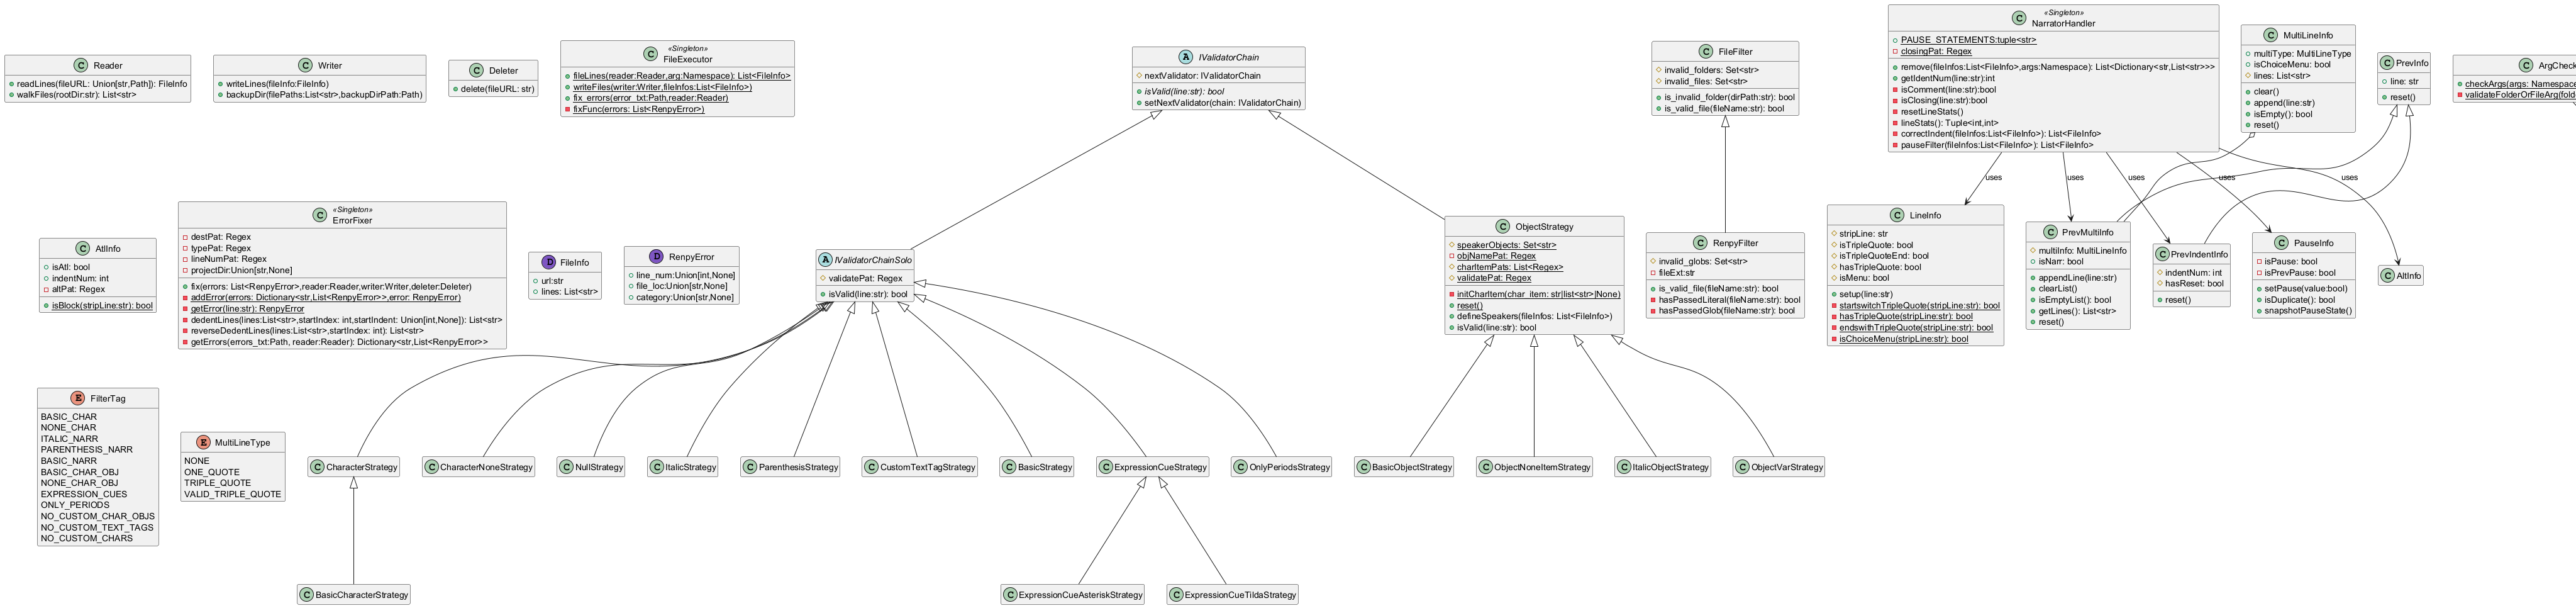
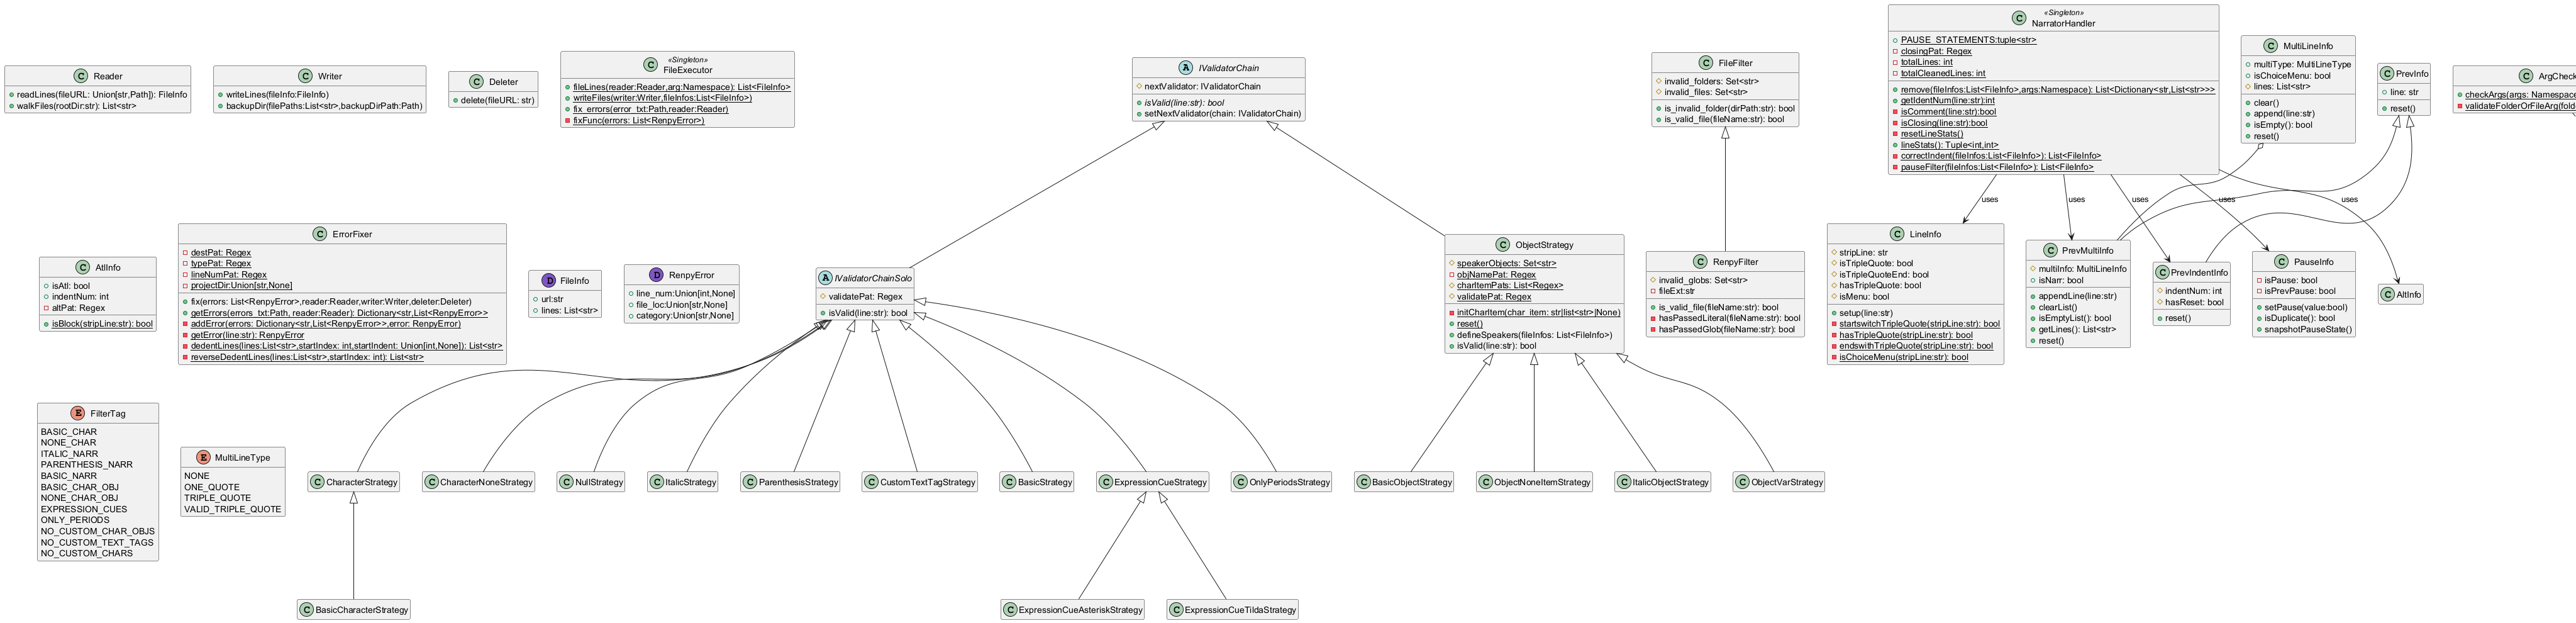
Error fixer and italic object filter improvements. - Rename package. 'handler' -> 'info' - Improve fixing error type: 'indentation mismatch' - Add case to italic object filter where Character contains a what_prefix with an italic tag - Convert Narrator handler to static class - Update tests - Update

diff --git a/src/lib/narrator_handler.py b/src/lib/narrator_handler.py
@@ -1,4 +1,4 @@
-from lib.handler import AtlInfo, LineInfo, PauseInfo, PrevIndentInfo, PrevMultiInfo
+from lib.info import AtlInfo, LineInfo, PauseInfo, PrevIndentInfo, PrevMultiInfo
 from .custom_types import FileInfo, MultiLineType
 import typing
 import re
@@ -9,7 +9,7 @@ class NarratorHandler:
     """Handles operations involving the removal of narration and thoughts.
 
     This handler removes narration and thoughts detected in the contents of files. After the operation,
-    attempts to cleanup the file(s) are set in place.
+    attempts to clean up the file(s) are set in place.
 
     Attributes:
         PAUSE_STATEMENTS: represents Ren'Py's 'pause' statements.
@@ -17,30 +17,33 @@ class NarratorHandler:
 
     PAUSE_STATEMENTS: tuple[str, str] = ("pause", "$ renpy.pause")
     __closing_pat: re.Pattern = re.compile(r"(?:[\"']|[\"']\s*with .+)$")
-
-    def __init__(self) -> None:
-        self._total_lines = 0
-        self._total_cleaned_lines = 0
+    __total_lines: int = 0
+    __total_cleaned_lines: int = 0
 
     @staticmethod
     def get_indent_num(line: str) -> int:
         """Gets the current amount of indentation."""
         return len(line) - len(line.lstrip())
 
-    def __is_comment(self, strip_line: str) -> bool:
+    @staticmethod
+    def __is_comment(strip_line: str) -> bool:
         return strip_line.startswith("\ufeff#") or strip_line.startswith("#")
 
-    def __is_closing(self, strip_line: str) -> bool:
-        return True if self.__closing_pat.search(strip_line) else False
+    @classmethod
+    def __is_closing(cls, strip_line: str) -> bool:
+        return True if cls.__closing_pat.search(strip_line) else False
 
-    def __reset_line_stats(self):
-        self._total_cleaned_lines = 0
-        self._total_lines = 0
+    @classmethod
+    def __reset_line_stats(cls):
+        cls.__total_cleaned_lines = 0
+        cls.__total_lines = 0
 
-    def line_stats(self) -> tuple[int, int]:
-        return self._total_cleaned_lines, self._total_lines
+    @classmethod
+    def line_stats(cls) -> tuple[int, int]:
+        return cls.__total_cleaned_lines, cls.__total_lines
 
-    def remove(self, file_infos: list[FileInfo], args) -> list[FileInfo]:
+    @classmethod
+    def remove(cls, file_infos: list[FileInfo], args) -> list[FileInfo]:
         """Removes narration & thoughts from file content.
 
         Along with the removal operation, cleanup operations are executed afterward.
@@ -51,30 +54,30 @@ class NarratorHandler:
         Returns:
             a list of file information and their modified content without the presence of a narrator or thought.
         """
-        self.__reset_line_stats()
+        cls.__reset_line_stats()
         for file_info in file_infos:
-            self._total_lines += len(file_info.lines)
+            cls.__total_lines += len(file_info.lines)
             cleaned_lines = []
             line_info = LineInfo()
             atl_info = AtlInfo()
             prev_info = PrevMultiInfo()
             for line in file_info.lines:
                 line_info.setup(line)
-                if self.__is_comment(line_info.strip_line):
+                if cls.__is_comment(line_info.strip_line):
                     continue
                 # REF:https://www.renpy.org/doc/html/transforms.html#atl-animation-and-transformation-language
                 # Example:
                 # init -2 layeredimage augustina:
                 #   "image_smile.png"
                 if atl_info.is_atl:
-                    if self.get_indent_num(line) > atl_info.indent_num:
+                    if cls.get_indent_num(line) > atl_info.indent_num:
                         cleaned_lines.append(line)
                         continue
                     else:
                         atl_info.is_atl = False
                 if atl_info.is_block(line_info.strip_line):
                     atl_info.is_atl = True
-                    atl_info.indent_num = self.get_indent_num(line)
+                    atl_info.indent_num = cls.get_indent_num(line)
                     cleaned_lines.append(line)
                     continue
 
@@ -88,14 +91,14 @@ class NarratorHandler:
                         cleaned_lines.append(line)
                     else:
                         if (
-                                prev_info.multi_type is MultiLineType.ONE_QUOTE and self.__is_closing(
+                                prev_info.multi_type is MultiLineType.ONE_QUOTE and cls.__is_closing(
                             line_info.strip_line)
                         ) or (prev_info.multi_type is MultiLineType.TRIPLE_QUOTE and line_info.is_triple_quote_end):
                             prev_info.multi_type = MultiLineType.NONE
                             if args.pauses:
                                 # Replaces narration with pauses
                                 cleaned_lines.append(
-                                    f"{' ' * self.get_indent_num(line)}{NarratorHandler.PAUSE_STATEMENTS[0]}\n"
+                                    f"{' ' * cls.get_indent_num(line)}{cls.PAUSE_STATEMENTS[0]}\n"
                                 )
                         prev_info.append_line(line)
                     continue
@@ -111,13 +114,13 @@ class NarratorHandler:
                 elif (
                         args.pauses
                         and is_narrator
-                        and not prev_info.line.strip().startswith(NarratorHandler.PAUSE_STATEMENTS)
+                        and not prev_info.line.strip().startswith(cls.PAUSE_STATEMENTS)
                         and len(cleaned_lines)
                         and not cleaned_lines[len(cleaned_lines) - 1].strip().startswith(
-                    NarratorHandler.PAUSE_STATEMENTS)
+                    cls.PAUSE_STATEMENTS)
                 ):
                     # Replaces narration with pauses
-                    cleaned_lines.append(f"{' ' * self.get_indent_num(line)}{NarratorHandler.PAUSE_STATEMENTS[0]}\n")
+                    cleaned_lines.append(f"{' ' * cls.get_indent_num(line)}{cls.PAUSE_STATEMENTS[0]}\n")
 
                 # Keeps the narrator during choice menu appearance
                 if line_info.is_menu:
@@ -138,7 +141,7 @@ class NarratorHandler:
                             or (is_narrator and line_info.has_triple_quote and not line_info.is_triple_quote_end)
                             or (is_narrator and line_info.is_triple_quote_end)):
                         prev_info.multi_type = MultiLineType.TRIPLE_QUOTE
-                    elif is_narrator and not self.__is_closing(line_info.strip_line):
+                    elif is_narrator and not cls.__is_closing(line_info.strip_line):
                         prev_info.multi_type = MultiLineType.ONE_QUOTE
                     elif not is_narrator and line_info.has_triple_quote:
                         # linda """You are not narrator
@@ -156,10 +159,11 @@ class NarratorHandler:
 
             file_info.lines = cleaned_lines
         if args.pauses:
-            file_infos = self.__pause_filter(file_infos)
-        return self.__correct_indent(file_infos)
+            file_infos = cls.__pause_filter(file_infos)
+        return cls.__correct_indent(file_infos)
 
-    def __correct_indent(self, file_infos: list[FileInfo]) -> list[FileInfo]:
+    @classmethod
+    def __correct_indent(cls, file_infos: list[FileInfo]) -> list[FileInfo]:
         """Attempts to correct indentation for each line in a file content.
 
         In order to do this, all file contents will be looped through again.
@@ -177,13 +181,13 @@ class NarratorHandler:
                 strip_line = line.strip()
                 if strip_line.endswith(":") and prev_info.has_reset:
                     prev_info.recent_line = line
-                    prev_info.indent_num = self.get_indent_num(line)
+                    prev_info.indent_num = cls.get_indent_num(line)
                 elif strip_line.endswith(":") and not prev_info.has_reset:
                     cleaned_lines.append(prev_info.recent_line)
                     cleaned_lines.append(line)
                     prev_info.reset()
                 elif not prev_info.has_reset:
-                    line_indent_num = self.get_indent_num(line)
+                    line_indent_num = cls.get_indent_num(line)
                     if (
                             (prev_info.indent_num < line_indent_num)
                             # labels do not need to follow strict indentation. Also,
@@ -206,10 +210,11 @@ class NarratorHandler:
                 else:
                     cleaned_lines.append(line)
             file_info.lines = cleaned_lines
-            self._total_cleaned_lines += len(cleaned_lines)
+            cls.__total_cleaned_lines += len(cleaned_lines)
         return file_infos
 
-    def __pause_filter(self, file_infos: list[FileInfo]) -> list[FileInfo]:
+    @classmethod
+    def __pause_filter(cls,file_infos: list[FileInfo]) -> list[FileInfo]:
         """Removes subsequent pause statements.
 
         Args:
@@ -220,7 +225,7 @@ class NarratorHandler:
             pause_info = PauseInfo()
             for line in file_info.lines:
                 strip_line = line.strip()
-                pause_info.set_pause(strip_line.startswith(NarratorHandler.PAUSE_STATEMENTS))
+                pause_info.set_pause(strip_line.startswith(cls.PAUSE_STATEMENTS))
                 if pause_info.is_duplicate():
                     continue
                 cleaned_lines.append(line)

diff --git a/src/lib/error_fixer.py b/src/lib/error_fixer.py
@@ -34,7 +34,7 @@ class ErrorFixer:
     _dest_pat: re.Pattern = re.compile(r"(?:and )?File\s+.+(game/.+\.rpy)")
     _line_num_pat: re.Pattern = re.compile(r".+line (\d+):")
     _type_pat: re.Pattern = re.compile(
-        rf".+({ErrorType.NON_EMPTY}|{ErrorType.INDENTED_LINE}|{ErrorType.EXPECTED_STATEMENT}|{ErrorType.INDENT_MISMATCH}|{ErrorType.MENU_NO_CHOICES})"
+        rf".+({ErrorType.NON_EMPTY}|{ErrorType.INDENTED_LINE}|{ErrorType.EXPECTED_STATEMENT}|[iI]ndentation mismatch|{ErrorType.MENU_NO_CHOICES})"
     )
     _project_dir: str | None = None
 
@@ -86,7 +86,8 @@ class ErrorFixer:
         Log.info("Errors detected", total_errors_log)
         return errors
 
-    def __dedent_lines(self, lines: list[str], start_index: int, start_indent: int | None = None) -> list[str]:
+    @staticmethod
+    def __dedent_lines(lines: list[str], start_index: int, start_indent: int | None = None) -> list[str]:
         """Correct indentation by decreasing indent level by 1.
 
         Indentation will be decreased by 1 level (4 spaces) until a line with the
@@ -110,7 +111,8 @@ class ErrorFixer:
                 break
         return lines
 
-    def __reverse_dedent_lines(self, lines: list[str], start_index: int) -> list[str]:
+    @staticmethod
+    def __reverse_dedent_lines(lines: list[str], start_index: int) -> list[str]:
         """Correct indentation by decreasing indent level by 1 going up to preceding lines.
 
         All preceding lines with an indentation level higher than the starting line will be dedented 1 level.
@@ -127,6 +129,8 @@ class ErrorFixer:
         start_index = start_index - 1
         for i in range(start_index, 0, -1):
             line = lines[i]
+            if not line.lstrip():
+                continue
             line_indent = NarratorHandler.get_indent_num(line)
             if line_indent <= min_indent:
                 break
@@ -137,8 +141,10 @@ class ErrorFixer:
         """Attempts to fix an error generated from 'errors.txt'.
 
         Args:
-            error: error information
+            errors: collection of error information
             reader: class for extracting content from a file.
+            writer: class for writing content to a file.
+            deleter: class for deleting an entire file.
         """
         if self._project_dir is None:
             return
@@ -153,7 +159,7 @@ class ErrorFixer:
                         file_info.lines.pop(error.line_num - 1)
                     elif ErrorType.INDENTED_LINE in error.category:
                         file_info.lines = self.__dedent_lines(file_info.lines, error.line_num - 1)
-                    elif ErrorType.INDENT_MISMATCH in error.category:
+                    elif ErrorType.INDENT_MISMATCH.lower() in error.category.lower():
                         file_info.lines = self.__reverse_dedent_lines(file_info.lines, error.line_num - 1)
                     elif ErrorType.MENU_NO_CHOICES in error.category:
                         file_info.lines = self.__dedent_lines(

diff --git a/tests/validator/test_character.py b/tests/validator/test_character.py
@@ -60,7 +60,8 @@ class TestCharacter(unittest.TestCase):
                     "default translate3 = Character(_(''))",
                     "default translate4 = Character( _(''))",
                     "default translate5 = Character( _( ' ' ))",
-                    'define think = Character("{i}Thoughts{i}")'
+                    'define think = Character("{i}Thoughts{i}")',
+                    'define ci = Character("[persistent.player_name]", color="#4169e1", what_suffix="{/i}", what_prefix="{i}")'
                 ],
             )
         ]
@@ -154,6 +155,8 @@ class TestCharacter(unittest.TestCase):
             # Empty quote speaker
             83: '"" "But oh man, how wrong I was..."',
             84: '"  " "But oh man, how wrong I was..."',
+            # what_prefix italics
+            85: 'ci "Maybe I shouldn\'t have done that."'
         }
 
     def setUp(self) -> None:
@@ -216,7 +219,7 @@ class TestCharacter(unittest.TestCase):
 
     def test_italic_object(self):
         """Test if Character object has 'what_italic=True' parameter."""
-        self.start_object(ItalicObjectStrategy(), [52, 53, 54, 55, 58, 59, 80, 82])
+        self.start_object(ItalicObjectStrategy(), [52, 53, 54, 55, 58, 59, 80, 82,85])
 
     def test_object_var(self):
         self.start_object(ObjectVarStrategy("pop"), [57])

diff --git a/src/lib/main.py b/src/lib/main.py
@@ -22,13 +22,12 @@ def run():
     Log.info("Files detected", len(file_infos))
     Log.log("Getting ready for removal process")
     ObjectStrategy.define_speakers(file_infos)
-    narrator_handler = NarratorHandler()
     Log.wait("Removing narration from files. This might take a while")
-    file_infos = narrator_handler.remove(file_infos, arg_namespace)
+    file_infos = NarratorHandler.remove(file_infos, arg_namespace)
     Log.wait("Writing modified lines to files")
     file_executor.write_files(writer, file_infos)
     Log.mark("DONE! Enjoy!")
-    total_cleaned_lines, total_lines = narrator_handler.line_stats()
+    total_cleaned_lines, total_lines = NarratorHandler.line_stats()
     Log.log(f"""Stats:
         [Code Removed]: {total_lines - total_cleaned_lines} lines
         [Code Removed (%)]: {(total_lines - total_cleaned_lines) / total_lines * 100} %

diff --git a/src/lib/validator/speaker/italic_object_strategy.py b/src/lib/validator/speaker/italic_object_strategy.py
@@ -9,4 +9,5 @@ class ItalicObjectStrategy(ObjectStrategy):
     def __init__(self, next_validator: "IValidatorChain | None" = None) -> None:
         super().__init__(None, next_validator)
         ItalicObjectStrategy._char_item_pats.append(re.compile(r"what_italic\s*=\s*True"))
+        ItalicObjectStrategy._char_item_pats.append(re.compile(r"what_prefix\s*=\s*([\"'])\{i}\1"))
         ItalicObjectStrategy._char_item_pats.append(re.compile(r"Character\(\s*(['\"])\s*\{i\}[^\"']+\{/?i\}\s*\1"))